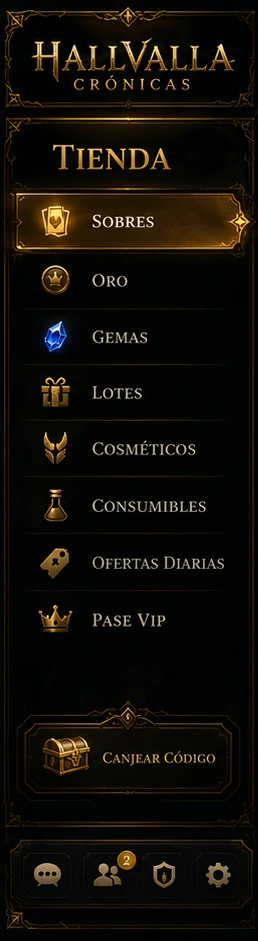
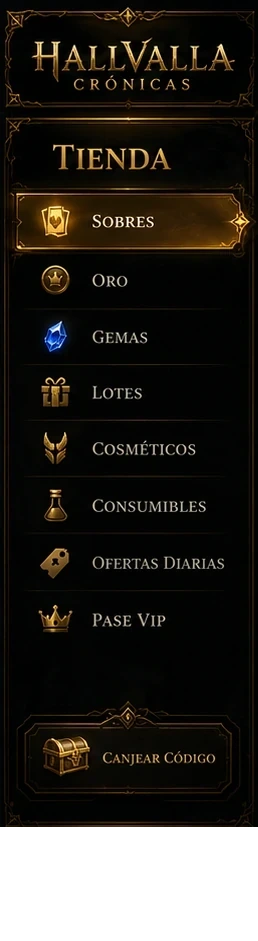
update

Changed region(s): [[0.0, 0.8629, 1.0, 1.0], [0.9302, 0.2157, 0.9612, 0.2465]]

diff --git a/script.js b/script.js
@@ -10224,10 +10224,6 @@ function buildLayeredPackShop(profile){
     shopLayer("daily_offer",1265,615,339,278,"hv-shop-daily-layer")
   ].join("");
   const liveValues=[
-    shopLiveValue(format(profile.gold),970,27,78,42,"hv-shop-gold-value"),
-    shopLiveValue(format(profile.gems),1136,27,78,42,"hv-shop-gems-value"),
-    shopLiveValue(format(profile.fragments),1300,27,78,42,"hv-shop-fragments-value"),
-    shopLiveValue(format(collectionTotal),1452,27,84,42,"hv-shop-cards-value"),
     shopLiveValue(format(profile.level||1),1514,74,43,38,"hv-shop-level-value"),
     shopLiveValue(String(profile.name||"Jugador"),1513,118,133,28,"hv-shop-name-value")
   ].join("");
@@ -10236,9 +10232,6 @@ function buildLayeredPackShop(profile){
     shopHotspot("Abrir colección","collection",425,10,165,78),
     shopHotspot("Abrir misiones","missions",591,10,161,78),
     shopHotspot("Tienda","shop",752,10,137,78),
-    shopHotspot("Conseguir oro","gold-plus",1040,20,45,58),
-    shopHotspot("Conseguir gemas","gems-plus",1204,20,45,58),
-    shopHotspot("Conseguir fragmentos","fragments-plus",1361,20,45,58),
     shopHotspot("Abrir perfil","profile",1485,5,181,151),
     shopHotspot("Ver sobres","packs",17,187,236,62),
     shopHotspot("Comprar oro","gold",17,249,236,59),
@@ -10249,10 +10242,6 @@ function buildLayeredPackShop(profile){
     shopHotspot("Ver ofertas diarias","daily",17,546,236,58),
     shopHotspot("Ver pase VIP","vip",17,605,236,58),
     shopHotspot("Canjear código","redeem",17,707,228,83),
-    shopHotspot("Abrir chat","chat",20,830,48,52),
-    shopHotspot("Abrir amigos","friends",68,830,48,52),
-    shopHotspot("Abrir clanes","clans",116,830,48,52),
-    shopHotspot("Abrir ajustes","settings",164,830,48,52),
     shopHotspot("Ver probabilidades","probabilities",1298,118,178,39),
     shopHotspot("Comprar Pack básico por 100 oro","buy-pack",315,535,191,50,'data-pack-key="basic"'),
     shopHotspot("Comprar Pack raro por 400 oro","buy-pack",574,535,191,50,'data-pack-key="rare"'),
@@ -10320,12 +10309,37 @@ function closePackShop(){
 async function buyPackWithGold(packKey){
   const pack=(PACK_SHOP_ITEMS||[]).find(p=>p.key===packKey)||null;
   if(!pack)return;
-  
+
   const profile=getPlayerProfile();
-  if((profile.gold||0)<pack.costGold){await hvAlert(`Necesitas ${pack.costGold} oro para comprar ${pack.name}. Tienes ${profile.gold||0}.`,"Oro insuficiente");openPackShop();return;}
-  const confirmed=await hvConfirm(`¿Comprar ${pack.name} por ${pack.costGold} oro del juego?`,`Confirmar compra`,`Comprar`,`Cancelar`);
+  const currentGold=Math.max(0,Number(profile.gold||0));
+  const packCost=Math.max(0,Number(pack.costGold||0));
+  const remainingGold=currentGold-packCost;
+  const formatGold=value=>Math.max(0,Number(value||0)).toLocaleString("es-CR");
+
+  if(remainingGold<0){
+    const missingGold=Math.abs(remainingGold);
+    await hvAlert(
+      `Oro disponible: ${formatGold(currentGold)}
+Costo del sobre: ${formatGold(packCost)}
+Te faltan: ${formatGold(missingGold)} de oro.`,
+      "Oro insuficiente"
+    );
+    return;
+  }
+
+  const confirmed=await hvConfirm(
+    `Oro disponible: ${formatGold(currentGold)}
+Costo del sobre: ${formatGold(packCost)}
+Oro después de comprar: ${formatGold(remainingGold)}
+
+¿Comprar ${pack.name}?`,
+    "Confirmar compra",
+    "Comprar",
+    "Cancelar"
+  );
   if(!confirmed)return;
-  profile.gold=(profile.gold||0)-pack.costGold;
+
+  profile.gold=remainingGold;
   savePlayerProfile(profile);
   addPendingPack({
     name:pack.name,
@@ -10335,12 +10349,22 @@ async function buyPackWithGold(packKey){
     lowerRarity:pack.lowerRarity,
     image:pack.image,
     source:"shop",
-    costGold:pack.costGold
+    costGold:packCost
   });
   renderPlayerProfile(profile);
   renderHomeProgress();
   closePackShop();
-  if(await hvConfirm(`Compraste ${pack.name}. ¿Abrirlo ahora?`,`Compra realizada`,`Abrir pack`,`Después`))openPackOpening();
+
+  if(await hvConfirm(
+    `Compraste ${pack.name}.
+Oro gastado: ${formatGold(packCost)}
+Oro restante: ${formatGold(remainingGold)}
+
+¿Abrir el sobre ahora?`,
+    "Compra realizada",
+    "Abrir pack",
+    "Después"
+  ))openPackOpening();
 }
 function getLegendaryCardByKey(key){
   return LEGENDARY_ALLY_CARDS.find(c=>c.key===key)||null;

diff --git a/index.html b/index.html
@@ -4,7 +4,7 @@
 <meta charset="UTF-8"/>
 <meta name="viewport" content="width=device-width, initial-scale=1.0, viewport-fit=cover"/>
 <title>HallValla v8 Organized - Mobile Landscape 7HEN</title>
-<link rel="stylesheet" href="styles.css?v=7SHOPFIX1"/>
+<link rel="stylesheet" href="styles.css?v=7SHOPBALANCE1"/>
 
 <link rel="icon" href="data:,">
 </head>
@@ -784,6 +784,6 @@ Para abrir tu camino en HallValla, tendrás que derrotarlo con estrategia, Honor
   </div>
 </div>
 
-<script type="module" src="script.js?v=7SHOPFIX1"></script>
+<script type="module" src="script.js?v=7SHOPBALANCE1"></script>
 </body>
 </html>
